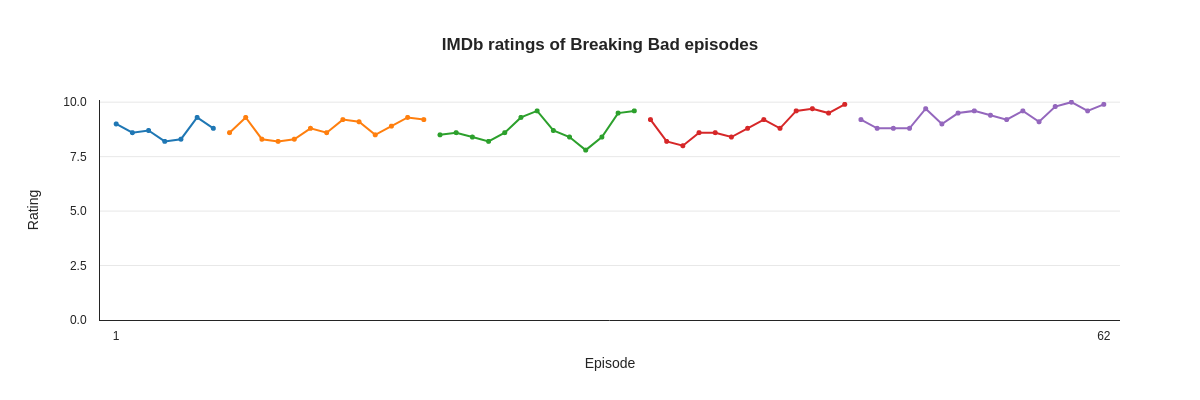
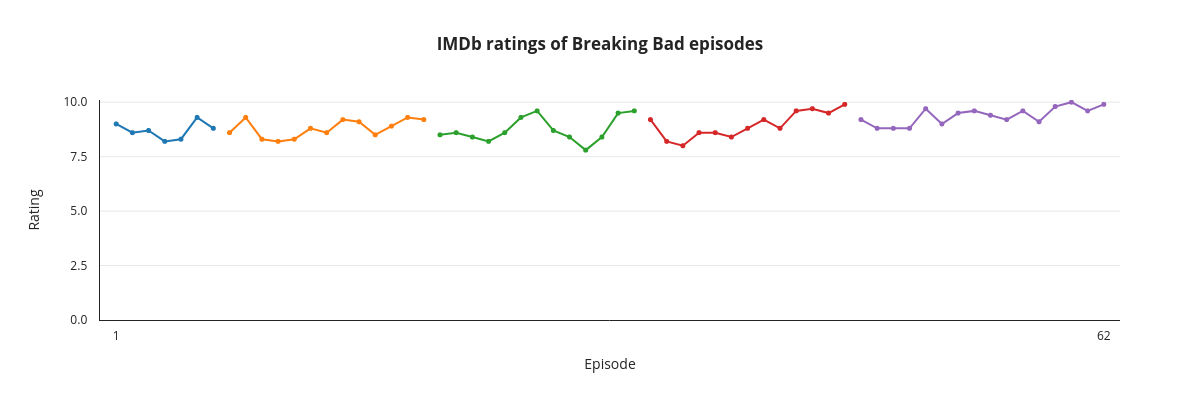
Revert to online version of plotly
To achieve a lower memory footprint.

diff --git a/graph.py b/graph.py
@@ -1,5 +1,6 @@
 import logging
 import random
+import os
 import threading
 import uuid
 from urllib.parse import quote
@@ -8,11 +9,14 @@ import falcon
 import hug
 import hug.types
 import plotly.graph_objects as go
+import chart_studio.plotly as py
 import requests
 import requests_html
 from cachetools import func
 
 IMDB_URL = 'https://www.imdb.com'
+
+py.sign_in(os.environ['PLOTLY_USERNAME'], os.environ['PLOTLY_API_KEY'])
 
 session = requests_html.HTMLSession()
 
@@ -87,7 +91,7 @@ def create_graph(title):
     )
 
     fig = go.Figure(data=data, layout=layout)
-    output = fig.to_image(format='png')
+    output = py.image.get(fig)
 
     return output
 

diff --git a/README.md b/README.md
@@ -3,6 +3,12 @@ A Python 3 API for generating rating graphs of TV series using [IMDb](https://ww
 
 With bonus integrations for [Fly.io](https://fly.io/docs/languages-and-frameworks/python/) and [Slack](https://api.slack.com/interactivity/slash-commands).
 
+### Config
+
+Set the following environment variables:
+- `PLOTLY_USERNAME`
+- `PLOTLY_API_KEY`
+
 ### Setup
 
 0. Run `poetry install` to set up a virtual environment and install the dependencies.
